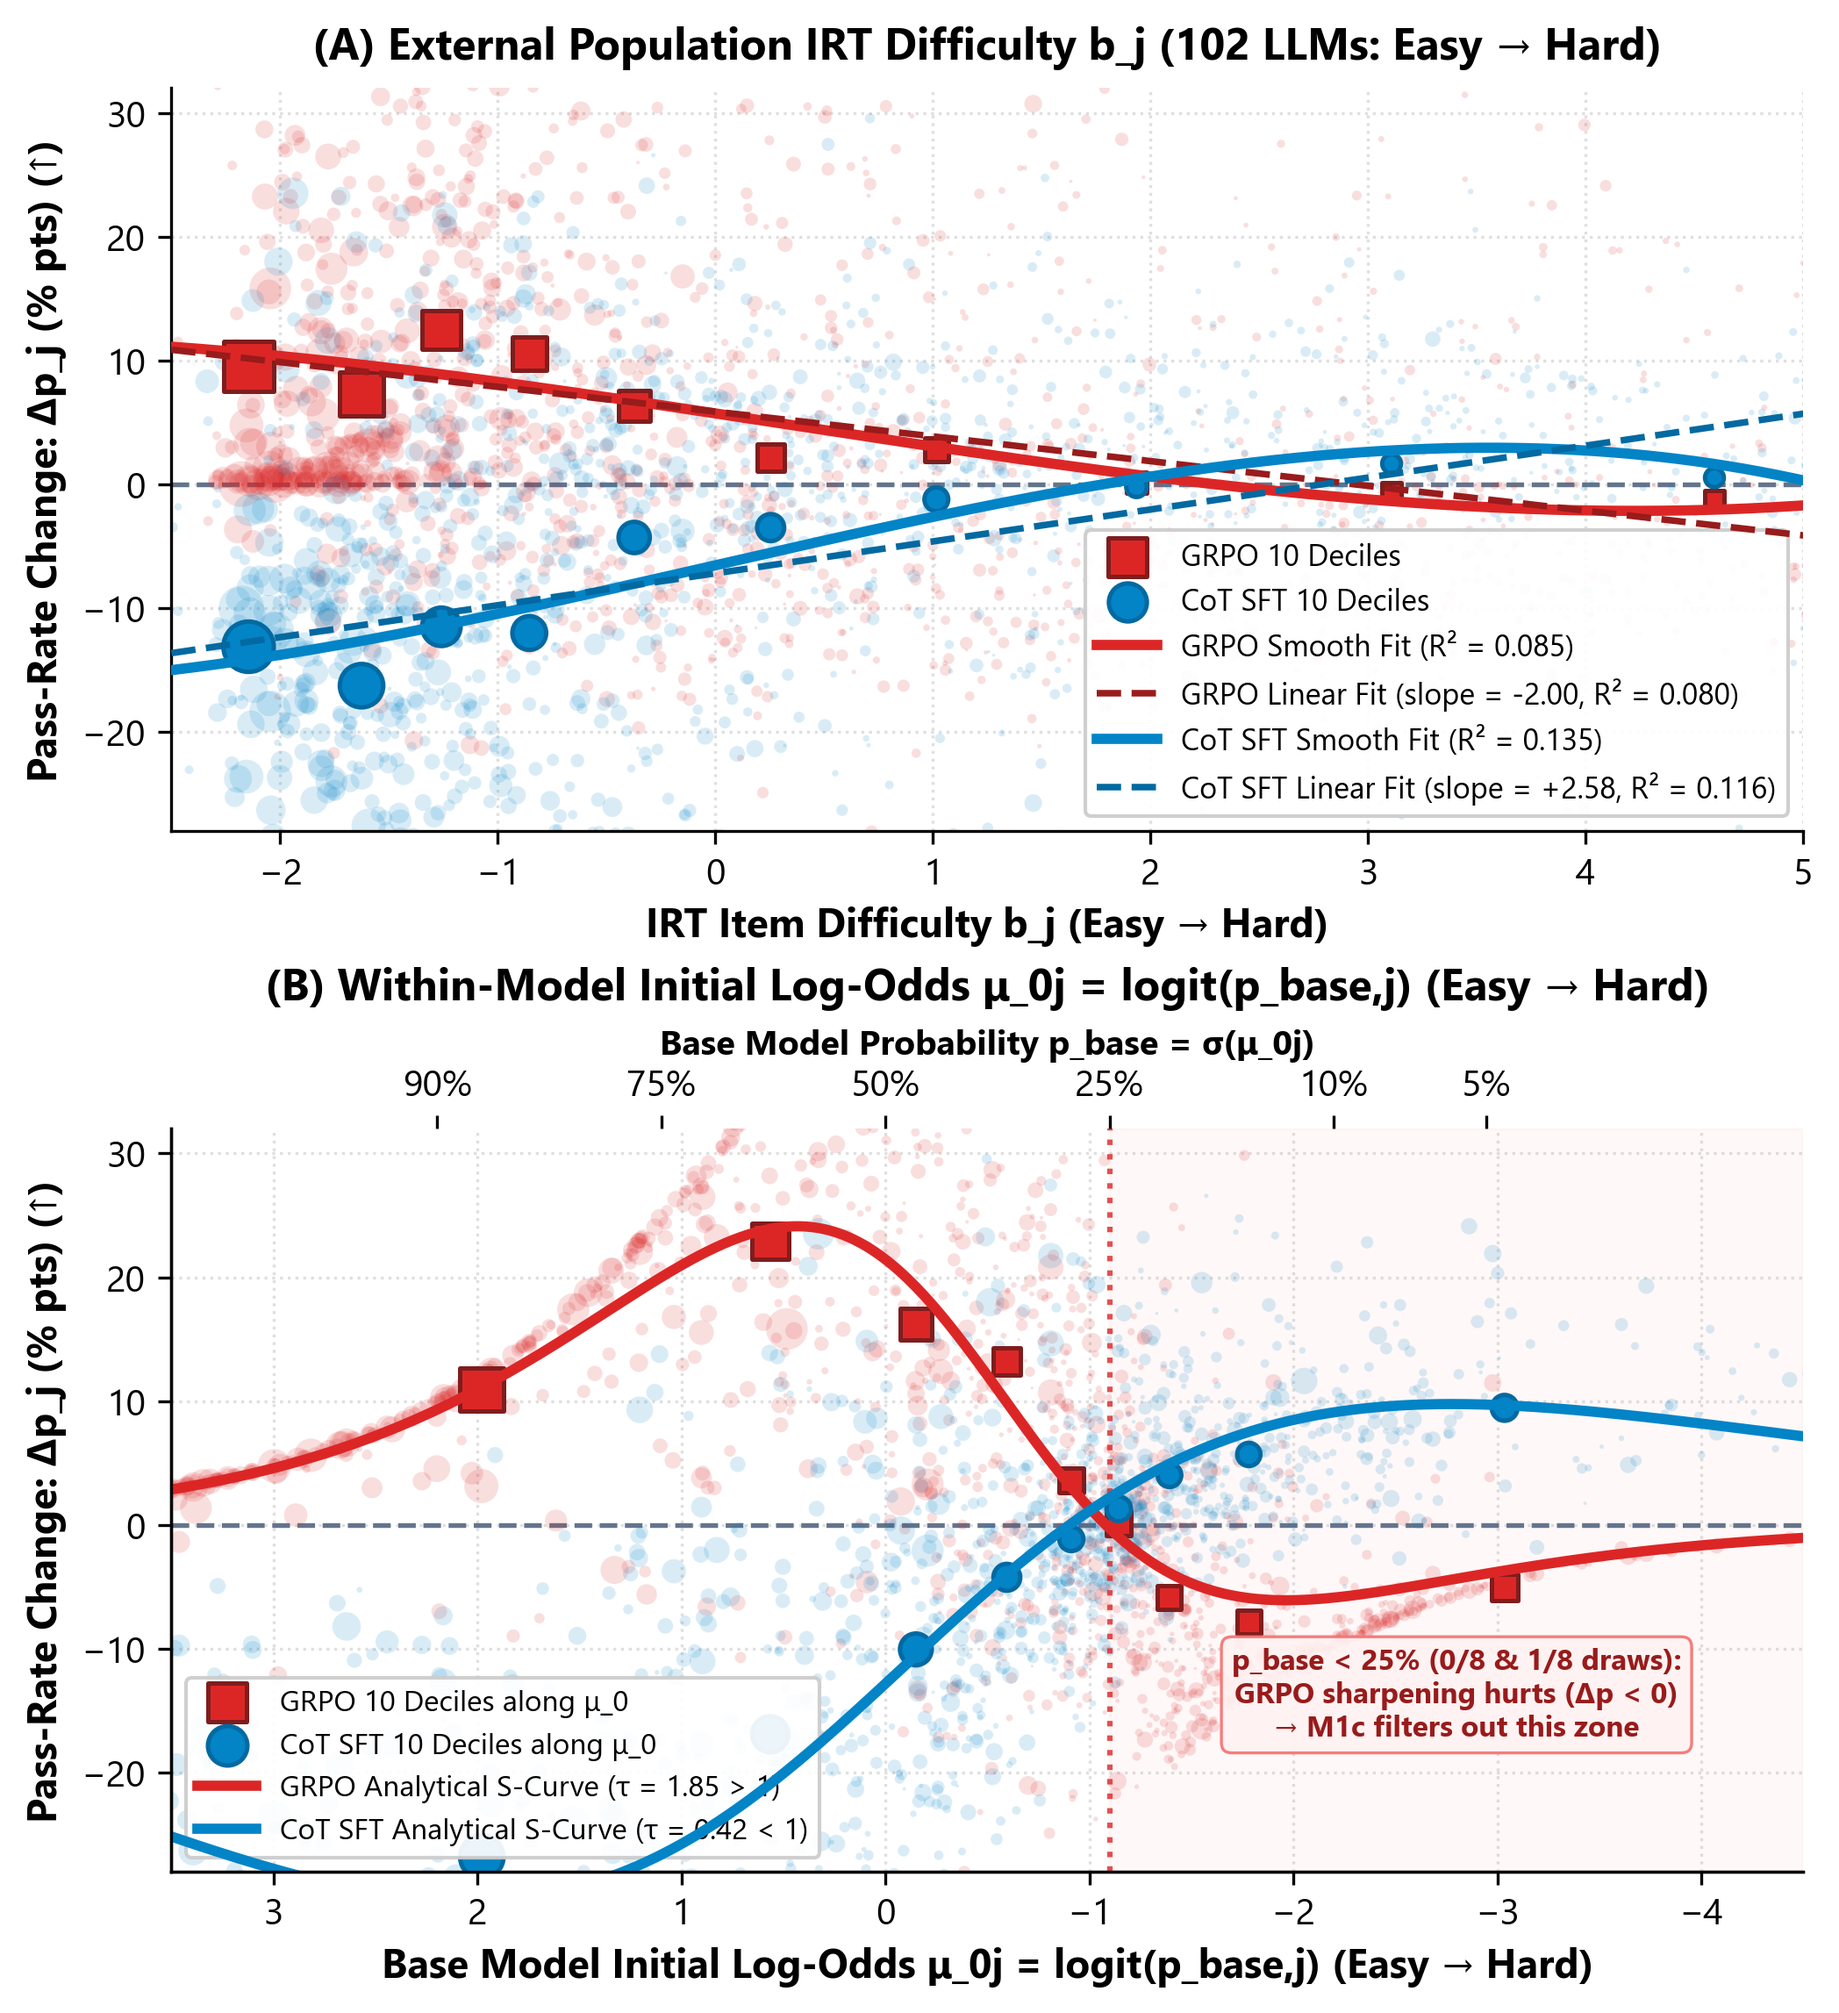
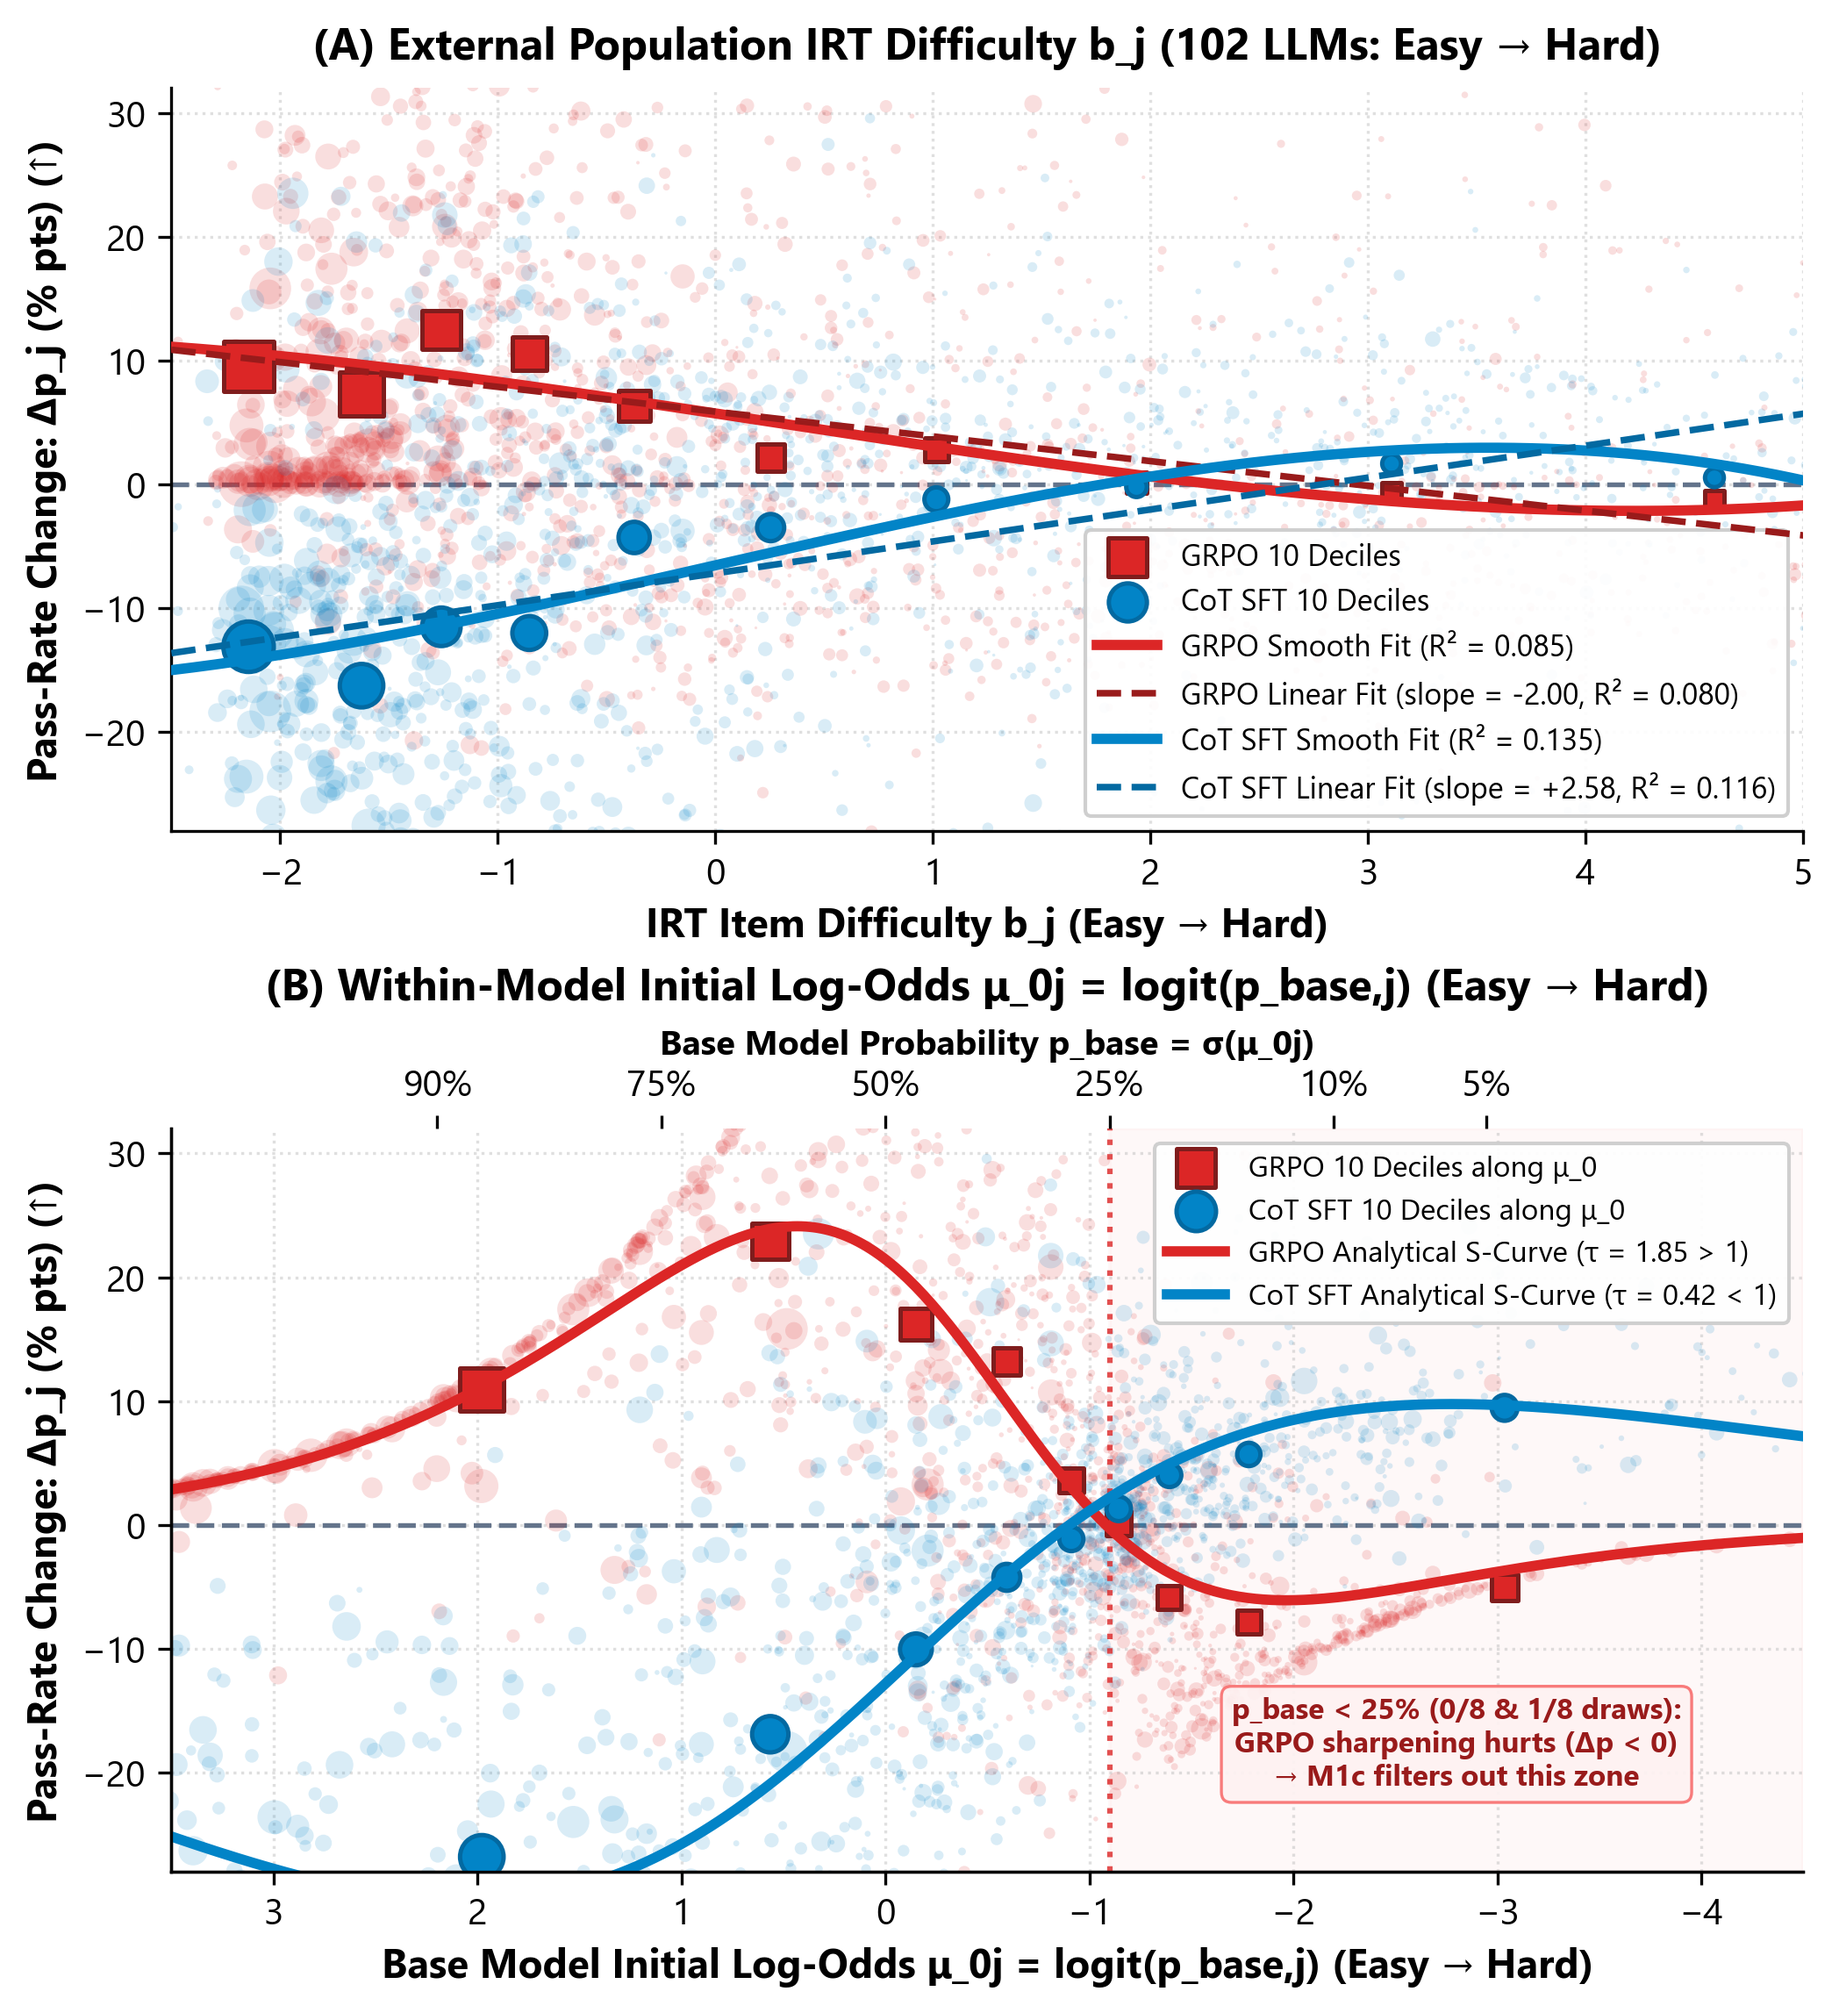
fix(figures): visual QA polish on Fig04_v5 Panel B and Fig06_r1a Panel B

Changed region(s): [[0.093, 0.8357, 0.4652, 0.9285], [0.6512, 0.8047, 0.9303, 0.8976], [0.6202, 0.5571, 0.9614, 0.65]]

diff --git a/gemini/make_oct26_figures.py b/gemini/make_oct26_figures.py
@@ -701,7 +701,7 @@ def make_fig4_v5_stacked_b_vs_base():
     ax2.plot(L_grid, pred_sft_curve, "-", color="#0284C7", linewidth=2.8, zorder=6, label=f"CoT SFT Analytical S-Curve (\u03c4 = {res_s.x[0]:.2f} < 1)")
 
     # Actionable RL prescription annotation
-    ax2.text(-2.8, -17.0, "p_base < 25% (0/8 & 1/8 draws):\nGRPO sharpening hurts (\u0394p < 0)\n\u2192 M1c filters out this zone",
+    ax2.text(-2.8, -21.0, "p_base < 25% (0/8 & 1/8 draws):\nGRPO sharpening hurts (\u0394p < 0)\n\u2192 M1c filters out this zone",
              ha="center", fontsize=8.0, color="#991B1B", fontweight="bold",
              bbox=dict(boxstyle="round,pad=0.35", facecolor="#FEF2F2", edgecolor="#F87171", alpha=0.92, linewidth=0.8), zorder=7)
 
@@ -710,7 +710,7 @@ def make_fig4_v5_stacked_b_vs_base():
     ax2.set_ylabel("Pass-Rate Change: \u0394p_j (% pts) (\u2191)")
     ax2.set_xlim(3.5, -4.5)
     ax2.set_ylim(-28, 32)
-    ax2.legend(loc="lower left", frameon=True, facecolor="white", framealpha=0.93, fontsize=8.0)
+    ax2.legend(loc="upper right", frameon=True, facecolor="white", framealpha=0.93, fontsize=8.0)
     ax2.grid(True, linestyle=":", alpha=0.4)
 
     ax2_top = ax2.twiny()
@@ -849,25 +849,26 @@ def make_fig6_r1a_extra_products():
 
     # Horizontal reference line at D = 1.035
     ax2.axhline(1.035, color="#64748B", linestyle="--", linewidth=1.4, zorder=2)
-    ax2.text(0.05, 1.18, "No Order Effect Null D = 1.035", fontsize=8.2, color="#475569", fontweight="bold")
+    ax2.text(1.55, 1.35, "No Order Effect Null D = 1.035", ha="center", fontsize=8.2, color="#475569", fontweight="bold",
+             bbox=dict(boxstyle="round,pad=0.2", facecolor="white", edgecolor="#CBD5E1", alpha=0.9, linewidth=0.6), zorder=6)
 
     # SFT dots: 1.85, 1.88, 1.92
     ax2.scatter([x_b[0]] * 3, [1.85, 1.88, 1.92], color="#0C4A6E", s=28, zorder=5)
     # GRPO dots: 9.74, 10.67, 11.60
     ax2.scatter([x_b[2]] * 3, [9.74, 10.67, 11.60], color="#7F1D1D", s=28, zorder=5)
     # Q1 error bar: 6.58 to 19.36
-    ax2.errorbar(x_b[3], 11.8, yerr=[[11.8 - 6.58], [14.0 - 11.8]], fmt="none", color="#92400E", capsize=5, elinewidth=2.0, capthick=2.0, zorder=5)
+    ax2.errorbar(x_b[3], 11.8, yerr=[[11.8 - 6.58], [19.36 - 11.8]], fmt="none", color="#92400E", capsize=5, elinewidth=2.0, capthick=2.0, zorder=5)
 
     # Text labels
     ax2.text(x_b[0], 2.20, "D = 1.88\n(\u221234% order bias)", ha="center", fontsize=8.2, fontweight="bold", color="#0369A1")
     ax2.text(x_b[1], 3.15, "D = 2.83\n(base)", ha="center", fontsize=8.2, fontweight="bold", color="#1E293B")
-    ax2.text(x_b[2], 10.95, "D = 10.67\n(4\u00d7 amplification)", ha="center", fontsize=8.2, fontweight="bold", color="#991B1B")
-    ax2.text(x_b[3], 9.8, "D = 11.8\n(6.58–19.4)", ha="center", fontsize=8.2, fontweight="bold", color="#78350F")
+    ax2.text(x_b[2], 12.3, "D = 10.67\n(4\u00d7 amplification)", ha="center", fontsize=8.2, fontweight="bold", color="#991B1B")
+    ax2.text(x_b[3], 19.8, "D = 11.8\n(range: 6.6\u201319.4)", ha="center", fontsize=8.2, fontweight="bold", color="#78350F")
 
     ax2.set_xticks(x_b)
     ax2.set_xticklabels(categories_b, fontsize=9.5, fontweight="bold")
     ax2.set_ylabel("Option-Order Dispersion D (Order 0 vs. 1) (\u2193)")
-    ax2.set_ylim(0, 14.8)
+    ax2.set_ylim(0, 21.5)
     ax2.set_title("(B) Paired-Order IRT: RL Amplifies Option-Order Bias 4\u00d7", pad=10)
     ax2.grid(True, axis="y", linestyle=":", alpha=0.4)
 
